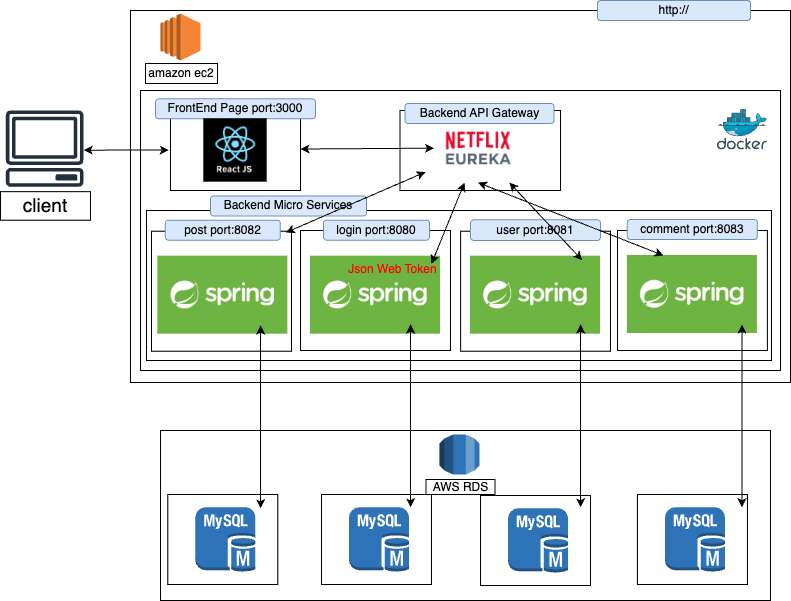
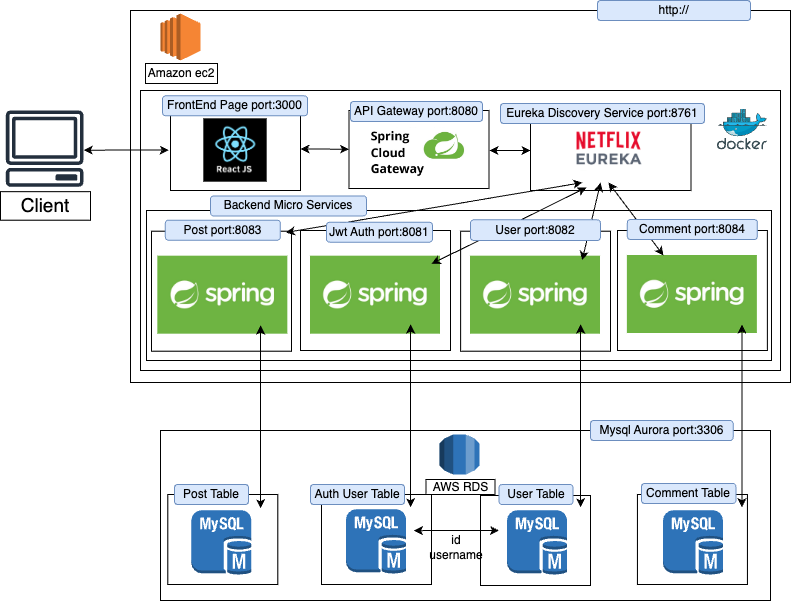
readme changed

diff --git a/Readme.md b/Readme.md
@@ -4,114 +4,147 @@
 
   - AWS EC2 가상 인스턴스에서 운영하는 Blog Service. 원래는 각 서비스들을 개별 인스턴스에서 운영해야하나 프리티어를 사용하는 관계로 한 인스턴스에서 운영
 
+
   - 프론트엔드(Port 3000)
-  1. React+Vite로 웹 페이지를 구성
 
-  2. Netflix Eureka API Gateway와 API 통신을 통해 요청과 응답을 처리한다.
+        1. React+Vite로 웹 페이지를 구성
+        2. 클라이언트는 Spring Cloud API Gateway와만 연결되어 서비스를 제공받는다.
 
-  - 백엔드(API Gateway : Port 8761, Microservice : 8080 ~ 8083)
-  1. Netflix Eureka API Gateway를 사용하여 프론트엔드 페이지에게 알맞는 서비스를 찾아주는 서비스 디스커버리를 제공.
+  - 백엔드(API Gateway : Port 8080, Netflix Eureka Server : Port 8761 Microservice : 8081 ~ 8084)
 
-  2. 사용자 자격 증명을 위해 로그인 관련된 주소들은 자격 증명없이 열어둔다.
+        1. 클라이언트는 Spring Cloud API Gateway와만 연결되어 서비스를 요청한다.
 
-  3. 사용자 인증은 Json Web Token을 발급하는 방식으로 클라이언트(React 페이지)는 발급받은 토큰을 사용하여 요청한 서비스를 제공받는다.
+        2. API Gateway는 Eureka Server와 연결되어 Eureka Server가 제공하는 Service Discovery를 통해 알맞은 서비스를 찾아준다.
 
-  4. 각 마이크로서비스는 Docker 이미지로 만들어서 EC2 인스턴스에서 운영된다.
+        3. API Gateway는 Service Discovery를 통해 사용자에게 서비스를 제공하기 전에 인증을 요구한다. 사용자 자격 증명을 위해 로그인 관련된 주소들은 자격 증명없이 열어둔다.
+
+        4. 사용자 인증은 Json Web Token을 발급하는 방식으로 클라이언트(React 페이지)는 발급받은 토큰을 사용하여 요청한 서비스를 제공받는다.
+
+        5. 각 마이크로서비스는 이미지화하여 Docker Compose를 통해 일괄 컨테이너화하여 EC2 인스턴스에서 운영된다.
 
   - 데이터베이스(Port 3306)
-  1. AWS RDS 가상 데이터베이스에서 MySQL을 사용하여 각 서비스의 데이터베이스를 구성한다.
 
-  2. 원래는 각 서비스에 맞춰 데이터베이스를 구성해야하나 프리티어를 사용하는 관계로 한 데이터베이스 내 여러 테이블로 구성한다.
-
+        1. AWS RDS 가상 데이터베이스에서 MySQL Aurora을 사용하여 각 서비스의 데이터베이스를 구성한다.
+    
+        2. 원래는 각 서비스에 맞춰 데이터베이스를 구성해야하나 프리티어를 사용하는 관계로 한 데이터베이스 내 여러 테이블로 구성한다.
+    
+        3. 인바운드 규칙은 MySQL Aurora TCP 방식으로 Port 3306번을 열어두며, 오직 ec2 인스턴스와 연결하여 각 마이크로서비스 알맞는 테이블을 생성.
+    
+        4. 아웃바운드 규칙 또한 ec2 인스턴스로만 향하도록 IP를 제한한다.
+    
+        5. VPC 라우팅 테이블을 제한하여 개발자 로컬 컴퓨터를 제외한 인터넷 게이트웨이는 닫아두고, ec2 인스턴스와만 연결되도록 한다.
 
 ## 동작 방식
 
-  1. 사용자가 클라이언트에 접속한다.
+    1. 사용자가 클라이언트에 접속한다.
 
-  2. 클라이언트는 사용자에게 자격 증명(유저이름, 비밀번호 등)을 요구한다.
+    2. 클라이언트는 사용자에게 자격 증명(유저이름, 비밀번호 등)을 요구한다.
 
-  3. 사용자는 클라이언트가 제공하는 로그인 페이지에 자격 증명을 작성하여 권한 부여 서비스(JWT Login Service)에 사용자의 자격 증명을 제출한다.
+    3. 사용자는 클라이언트가 제공하는 로그인 페이지에 자격 증명을 작성하여 권한 부여 서비스(JWT Login Service)에 사용자의 자격 증명을 제출한다.
 
-  4. 자격 증명이 유효하다면 권한 부여 서버는 클라이언트에게 토큰을 발급한다.
+    4. 자격 증명이 유효하다면 권한 부여 서버는 클라이언트에게 토큰을 발급한다.
 
-  5. 토큰을 발급받은 클라이언트는 사용자가 요청하는 리소스에 따라 토큰을 사용하여 각 리소스를 제공받는다.
+    5. 토큰을 발급받은 클라이언트는 사용자가 요청하는 리소스에 따라 토큰을 사용하여 각 리소스를 제공받는다.
 
 ## 서비스 모델 구성
 
-  JWT Login Service
-  - Spring Securit에서 제공하는 UserDetails를 상속받아 구성된다. ID, 유저 이름, 비밀번호
+    Spring Cloud API Gateway
+    - Spring Cloud에서 제공하는 API Gateway 서비스로 클라이언트는 API Gateway와 다른 백엔드 서비스의 URI를 알지 않고도 알맞은 서비스를 제공받을 수 있다.
+    - API Gateway는 자체 토큰 검증을 하며, 사용자 인증이 되어있을 경우에만 서비스를 제공한다.
 
-  User Service 
-  - 유저의 정보를 제공. ID, 유저 이름, 비밀번호(이 셋은 로그인 서비스와 똑같으나 공유하지 않고 개별 테이블(원래는 DB)에서 관리), 이메일, 권한(USER, ADMIN), 게시물, 댓글
+    Netflix Eureka Service Discovery
+    - API Gateway가 Eureka Server를 통해 클라이언트가 요청한 서비스를 찾아준다.
+    - API Gateway를 통해 제공받고자하는 마이크로서비스들은 API Gateway를 포함해서 Eureka Discovery Client로 등록되어야한다.
 
-  Post Service
-  - 유저의 게시물 정보를 제공. ID, 제목, 내용, 작성 날짜, 댓글
+    JWT Auth Service
+    - Spring Securit에서 제공하는 UserDetails를 상속받아 구성된다. ID, 유저 이름, 비밀번호
+    - 사용자 인증을 위해 회원등록과 로그인 기능은 API Gateway를 포함하여 열어둔다.
 
-  Comment Service
-  - 유저의 댓글 정보를 제공. ID, 내용, 작성 날짜, (대댓글은 추후 추가 예정)
+    User Service 
+    - 유저의 정보를 제공. ID, 유저 이름(이 둘은 로그인 서비스와 똑같으나 공유하지 않고 개별 테이블(원래는 DB)에서 관리), 이메일, 권한(USER, ADMIN), 게시물, 댓글
+    - 유저가 정보 수정/삭제 시, JWT Auth Service에도 요청하여 사용자 정보를 수정/삭제할 것을 요청함
 
-  React+Vite Front End Service
-  - 각 서비스에 맞춰 페이지를 제공함
-  - 권한에 따라 접속할 수 있는 페이지를 제한
-  - 인증이 되지않은 사용자에게는 자격 증명을 요구하는 로그인 페이지를 띄움
+    Post Service
+    - 유저의 게시물 정보를 제공. ID, 제목, 내용, 작성 날짜, 댓글
+    - 유저와 @ManyToOne 관계이며 댓글과는 @OneToMany 관계이다
+
+    Comment Service
+    - 유저의 댓글 정보를 제공. ID, 내용, 작성 날짜, (대댓글은 추후 추가 예정)
+    - 유저와 Post 모두에게 @ManyToOne 관계이다
+
+    React+Vite Front End Service
+    - 각 서비스에 맞춰 페이지를 제공함
+    - 권한에 따라 접속할 수 있는 페이지를 제한
+    - 인증이 되지않은 사용자에게는 자격 증명을 요구하는 로그인 페이지를 띄움
+    - 오직 API Gateway와만 연결된다.
 
 ## 설계 순서
 
-  우선은 각 서비스를 먼저 개발한 후에 RDS와의 연결 테스트 후 도커 이미지로 만들어서 잘 되는지 확인된 뒤에 EC2 인스턴스에 올려서 RDS와 연결하여 사용하도록 한다.
+    우선은 각 서비스를 먼저 개발한 후에 RDS와의 연결 테스트 후 도커 이미지로 만들어서 잘 되는지 확인된 뒤에 EC2 인스턴스에 올려서 RDS와 연결하여 사용하도록 한다.
 
-  1. API Gateway
+    1. API Gateway
 
-  - 프론트엔드 페이지와 단독으로 연결되어 서비스 디스커버리를 제공.
+    - 프론트엔드 페이지와 단독으로 연결된다.
 
-  - JWT 로그인 서비스를 제외한 나머지 서비스에는 토큰이 없으면 접근 불가 처리. 토큰 유무를 확인한다.
+    - Eureka Service에 연결되어 사용자 요청을 통해 받은 서비스를 Eureka Server를 통해 찾는다
 
-  2. JWT Login Service
+    - JWT 로그인 서비스를 제외한 나머지 서비스에는 토큰이 없으면 접근 불가 처리. 토큰 유무를 확인한다.
 
-  - Json Web Token을 발급하여 사용자를 인증하고 관리한다.
+    2. JWT Login Service
 
-  - 로그인과 회원가입 두 가지 기능으로 구성
+    - Json Web Token을 발급하여 사용자를 인증하고 관리한다.
 
-  - 로그인 시에는 토큰을 발급하고, 회원가입 시에는 사용자를 DB에 추가하여 관리한다.
+    - 로그인과 회원가입 두 가지 기능으로 구성
 
-  - Spring Security의 UserDetails를 상속받아 유저 객체를 선언한다.
+    - 로그인 시에는 토큰을 발급하고, 회원가입 시에는 사용자를 DB에 추가하여 관리한다.
 
-  3. User Service
+    - Spring Security의 UserDetails를 상속받아 유저 객체를 선언한다.
 
-  - 사용자의 정보를 제공하며, 권한에 따라 사용자의 기능이 제한됨.
+    3. User Service
 
-  - USER는 기본적인 자신의 정보들의 CRUD만을 할 수 있다.
+    - 사용자의 정보를 제공하며, 권한에 따라 사용자의 기능이 제한됨.
 
-  - USER에는 USER와 BANNED_USER 두 가지가 존재하며 밴을 당한 유저는 게시물과 댓글 작성이 불가능함.
+    - USER는 기본적인 자신의 정보들의 CRUD만을 할 수 있다.
 
-  - ADMIN은 모든 유저, 게시물, 댓글을 CRUD할 수 있음.
+    - USER에는 USER와 BANNED_USER 두 가지가 존재하며 밴을 당한 유저는 게시물과 댓글 작성이 불가능함.
 
-  - ADMIN은 유저를 밴할 수 있으며 밴을 당한 유저는 게시물 및 댓글 작성 기능을 사용할 수 없음. 유저 밴 기간을 설정할 수 있음.
+    - ADMIN은 모든 유저, 게시물, 댓글을 CRUD할 수 있음.
 
-  4. Post Service
+    - ADMIN은 유저를 밴할 수 있으며 밴을 당한 유저는 게시물 및 댓글 작성 기능을 사용할 수 없음. 유저 밴 기간을 설정할 수 있음.
 
-  - 유저가 게시물을 CRUD할 수 있음
+    4. Post Service
 
-  - 밴을 당한 경우, 밴 당한 기간만큼 게시물을 올릴 수 없으나 삭제 및 수정은 가능하다.
+    - 유저가 게시물을 CRUD할 수 있음
 
-  - ADMIN은 모든 게시물을 삭제할 수 있음.(수정은 불가능)
+    - 밴을 당한 경우, 밴 당한 기간만큼 게시물을 올릴 수 없으나 삭제 및 수정은 가능하다.
 
-  5. Comment Service
+    - ADMIN은 모든 게시물을 삭제할 수 있음.(수정은 불가능)
 
-  - 유저가 게시물에 댓글을 CRUD할 수 있음
+    5. Comment Service
 
-  - 밴을 당한 경우, 밴 당한 기간만큼 댓글을 달 수 없으나, 삭제 및 수정은 가능하다.
+    - 유저가 게시물에 댓글을 CRUD할 수 있음
 
-  - ADMIN은 모든 댓글을 삭제할 수 있음.(수정은 불가능)
+    - 밴을 당한 경우, 밴 당한 기간만큼 댓글을 달 수 없으나, 삭제 및 수정은 가능하다.
 
-  6. React+Vite Client
+    - ADMIN은 모든 댓글을 삭제할 수 있음.(수정은 불가능)
 
-  - 사용자는 클라이언트를 통해 서비스의 기능을 GUI 형태로 제공받음
+    6. React+Vite Client
 
-  - 권한에 따라 보여지는 버튼과 기능, 접속할 수 있는 페이지가 달라짐
+    - 사용자는 클라이언트를 통해 서비스의 기능을 GUI 형태로 제공받음
 
-  - 일반 유저는 게시물을 올리고 댓글을 달고 유저 정보를 삭제하는 등의 기본적인 페이지만 볼 수 있음
+    - 권한에 따라 보여지는 버튼과 기능, 접속할 수 있는 페이지가 달라짐
 
-  - ADMIN 유저만 유저, 게시물, 댓글을 관리하는 페이지에 접속할 수 있음
+    - 일반 유저는 게시물을 올리고 댓글을 달고 유저 정보를 삭제하는 등의 기본적인 페이지만 볼 수 있음
+
+    - ADMIN 유저만 유저, 게시물, 댓글을 관리하는 페이지에 접속할 수 있음
+
+    7. Eureka Server
+
+    - Eureka Client로 등록된 서비스를 찾아주는 Service Discovery를 제공
+
+    - API Gateway가 클라이언트 요청을 바탕으로 서비스를 찾아줄 것을 Eureka Server에 요청함
+    
+    - Eureka Server는 등록된 서비스들을 찾아서 서비스를 제공한다.
 
 ## 비즈니스 로직
 
